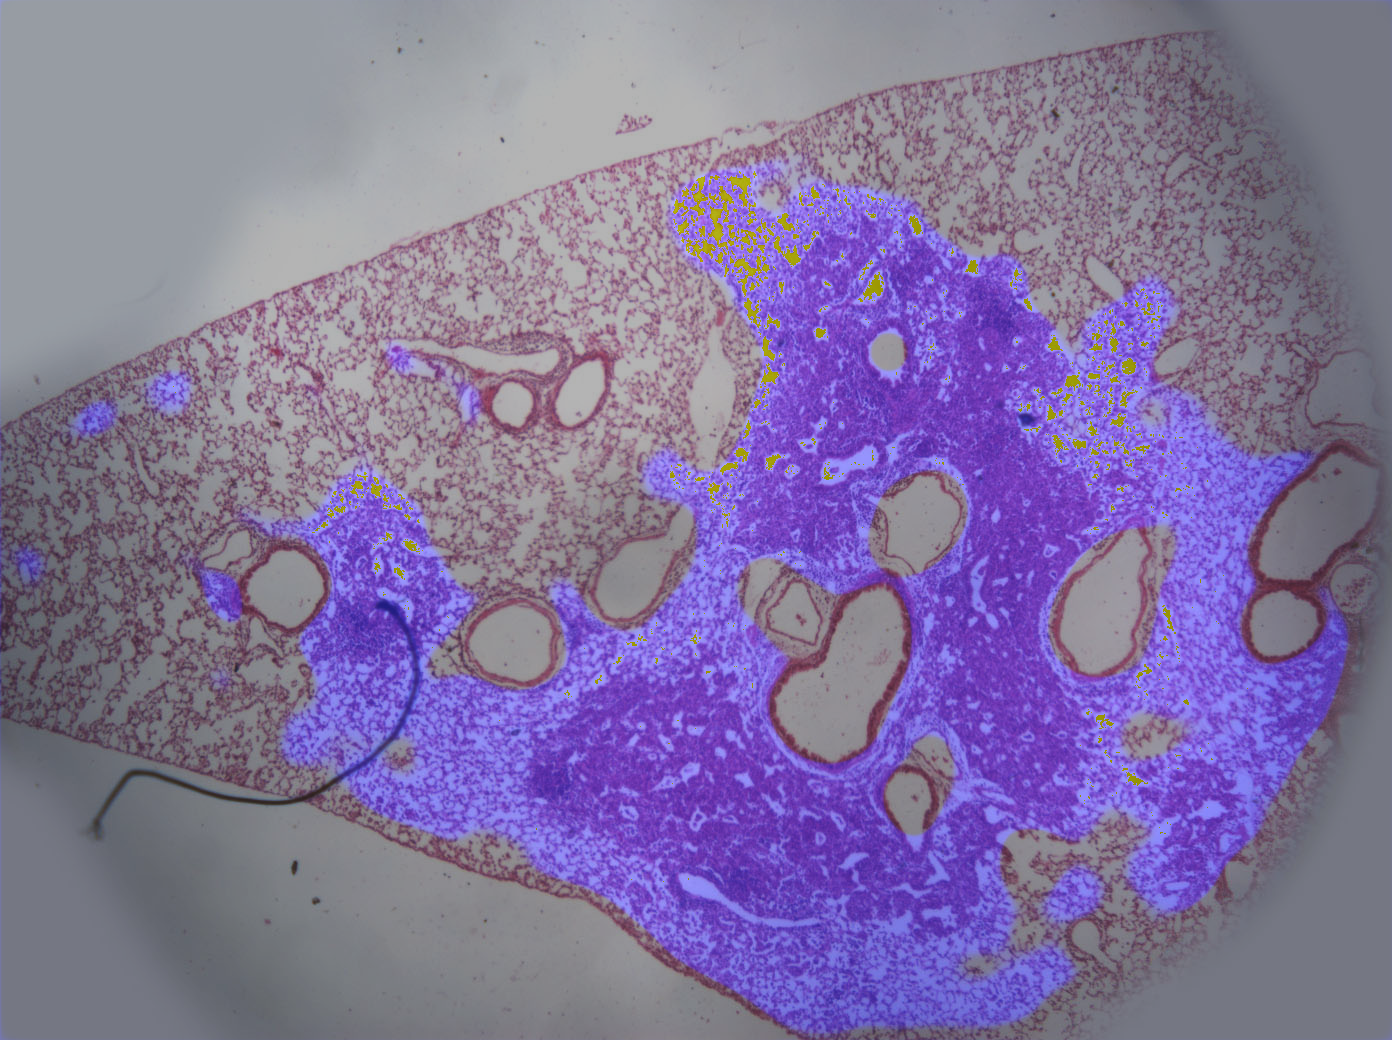
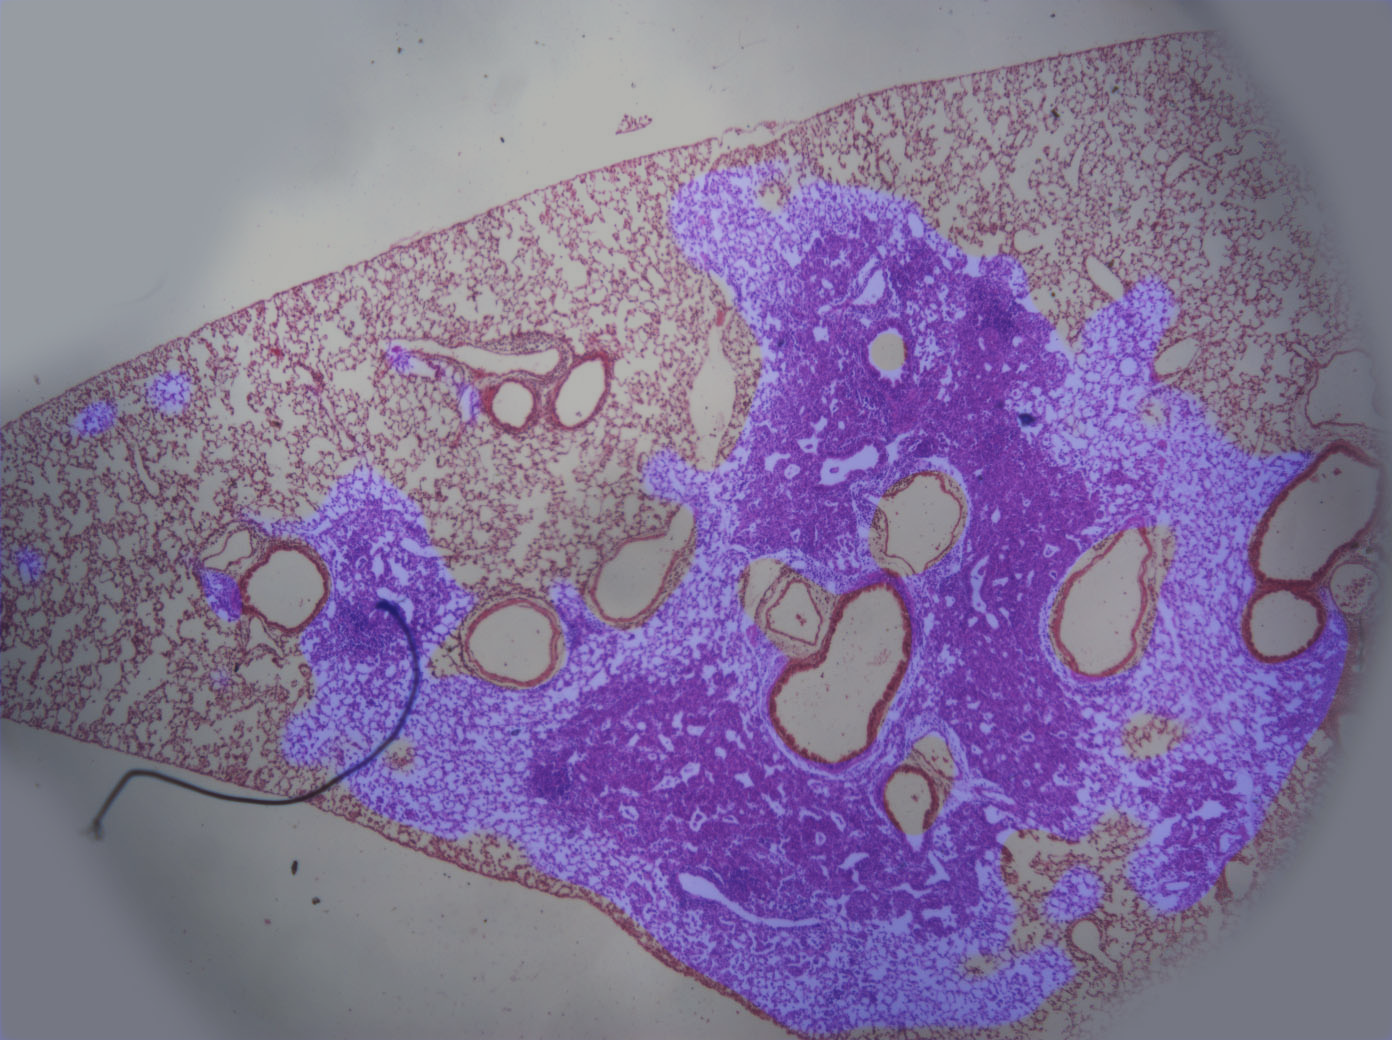
Prevent over-range on blue channel.

diff --git a/main.py b/main.py
@@ -103,7 +103,7 @@ def predict(model, target):
         print("%s pixel sum: %.1f" % (name[i], np.sum(image[:, :, 0])))
         # image = (image[:, :, 0] * 255.).astype(np.uint8)  # pure BW
         # image = ((0.6 * image[:, :, 0] + 0.4 * (tst[i][:, :, 1] + 0.99)) * 127.).astype(np.uint8)  # gray mixed
-        tst[i][:, :, 2] += 0.49 * image[:, :, 0]
+        tst[i][:, :, 2] = np.tanh(tst[i][:, :, 2] + 0.6 * image[:, :, 0])
         target_file = os.path.join(target_dir, name[i]).replace(".jpg", ".png")
         target_dir = os.path.dirname(target_file)
         if (not os.path.exists(target_dir)):
